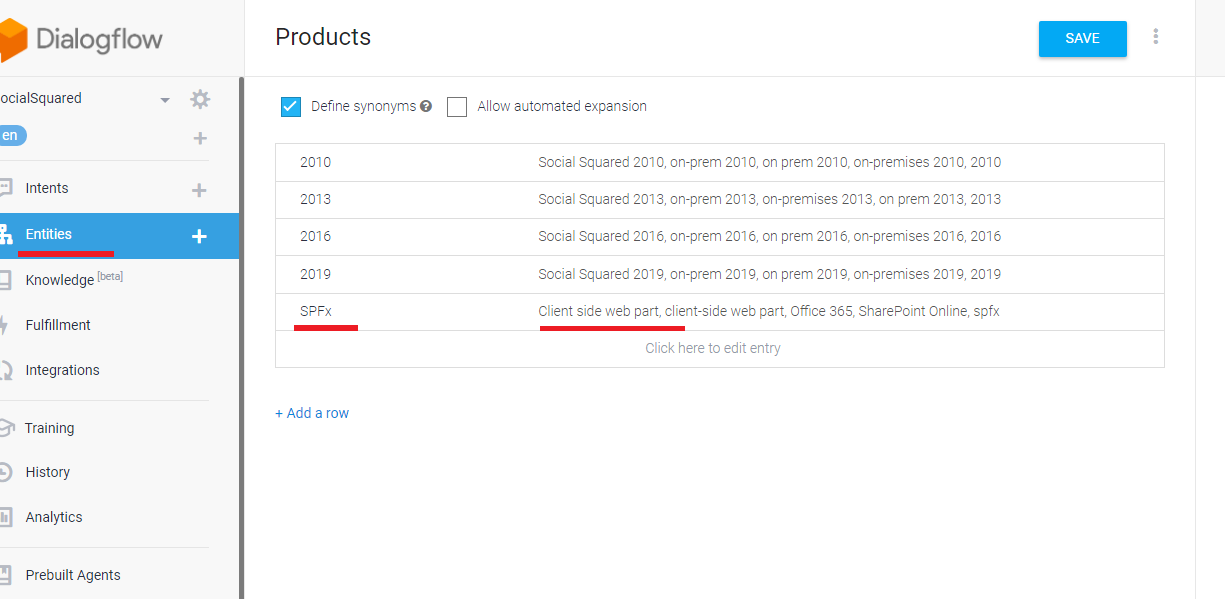
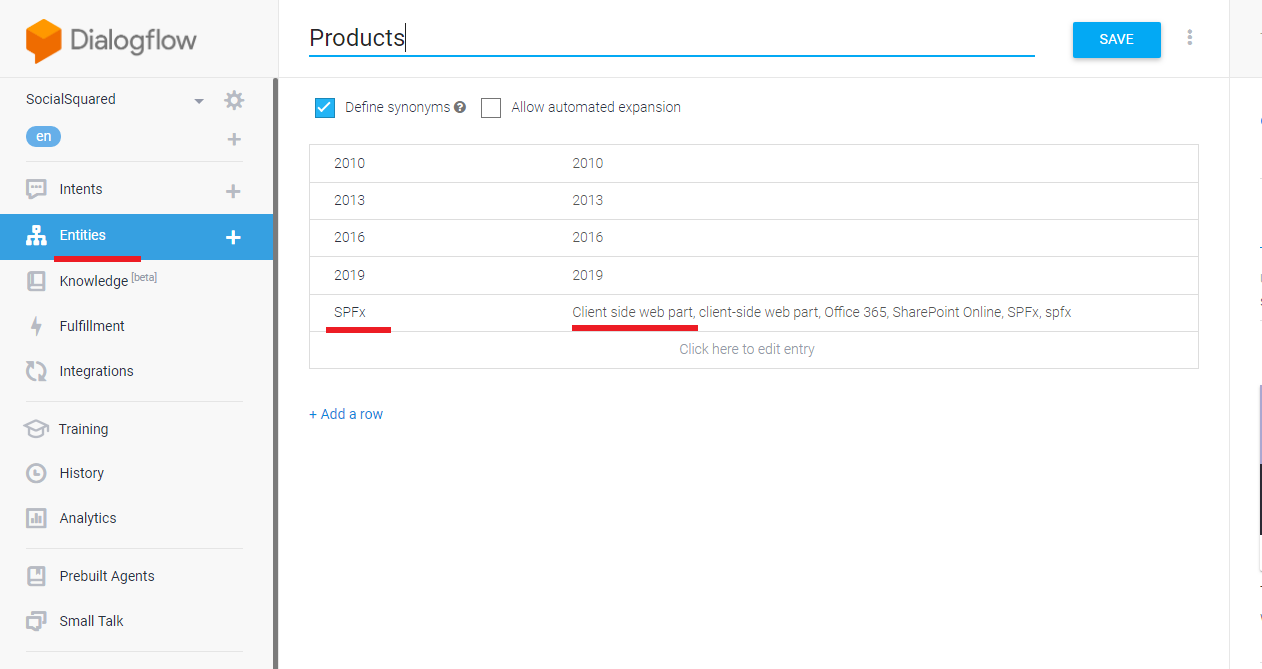
changing entity product image

diff --git a/docs/description/index.html b/docs/description/index.html
@@ -793,13 +793,13 @@ user defined entity which is <i>@Products</i>.</span></p>
 
 <p class=MsoNormal><span style='font-size:14.0pt;line-height:107%'>&nbsp;</span></p>
 
-<p class=MsoNormal><img border=0 width=1309 height=598 id="Picture 69"
-src="index_files/image038.jpg"></p>
+<p class=MsoNormal><img border=0 width=1262 height=669 id="Picture 14"
+src="index_files/image038.png"></p>
 
 <p class=MsoNormal><span style='font-size:14.0pt;line-height:107%'>Figure 38</span></p>
 
 <p class=MsoNormal><span style='font-size:14.0pt;line-height:107%'>We specified
-product names such as 2010 and defined synonyms; different words or sentences mean
+product names such as SPFx and defined synonyms; different words or sentences mean
 the same thing.</span></p>
 
 <p class=MsoNormal><span style='font-size:14.0pt;line-height:107%'>&nbsp;</span></p>
@@ -908,7 +908,7 @@ is client-side web part</i> and the response was <i>Thank you for your interes s
 
 <p class=MsoNormal><span style='font-size:14.0pt;line-height:107%'>&nbsp;</span></p>
 
-<p class=MsoNormal><img border=0 width=1255 height=613 id="Picture 70"
+<p class=MsoNormal><img border=0 width=1262 height=669 id="Picture 17"
 src="index_files/image047.png"></p>
 
 <p class=MsoNormal><span style='font-size:14.0pt;line-height:107%'>Figure 47</span></p>
@@ -982,7 +982,7 @@ custom defined entity.</span></p>
 
 <p class=MsoNormal><span style='font-size:14.0pt;line-height:107%'>&nbsp;</span></p>
 
-<p class=MsoNormal><img border=0 width=1226 height=637 id="Picture 71"
+<p class=MsoNormal><img border=0 width=1262 height=669 id="Picture 21"
 src="index_files/image052.png"></p>
 
 <p class=MsoNormal><span style='font-size:14.0pt;line-height:107%'>Figure 52</span></p>
@@ -1183,8 +1183,8 @@ if it's not already active or to maintain the context after the intent</span></p
 
 <p class=MsoNormal><span style='font-size:14.0pt;line-height:107%'>is matched.</span></p>
 
-<p class=MsoNormal><span style='font-size:14.0pt;line-height:107%'>We defined
-output context<i> likes_chocolate</i> for <i>like chocolate </i>intent.</span></p>
+<p class=MsoNormal><span style='font-size:14.0pt;line-height:107%'>We defined output
+context<i> likes_chocolate</i> for <i>like chocolate </i>intent.</span></p>
 
 <p class=MsoNormal><span style='font-size:14.0pt;line-height:107%'>&nbsp;</span></p>
 
